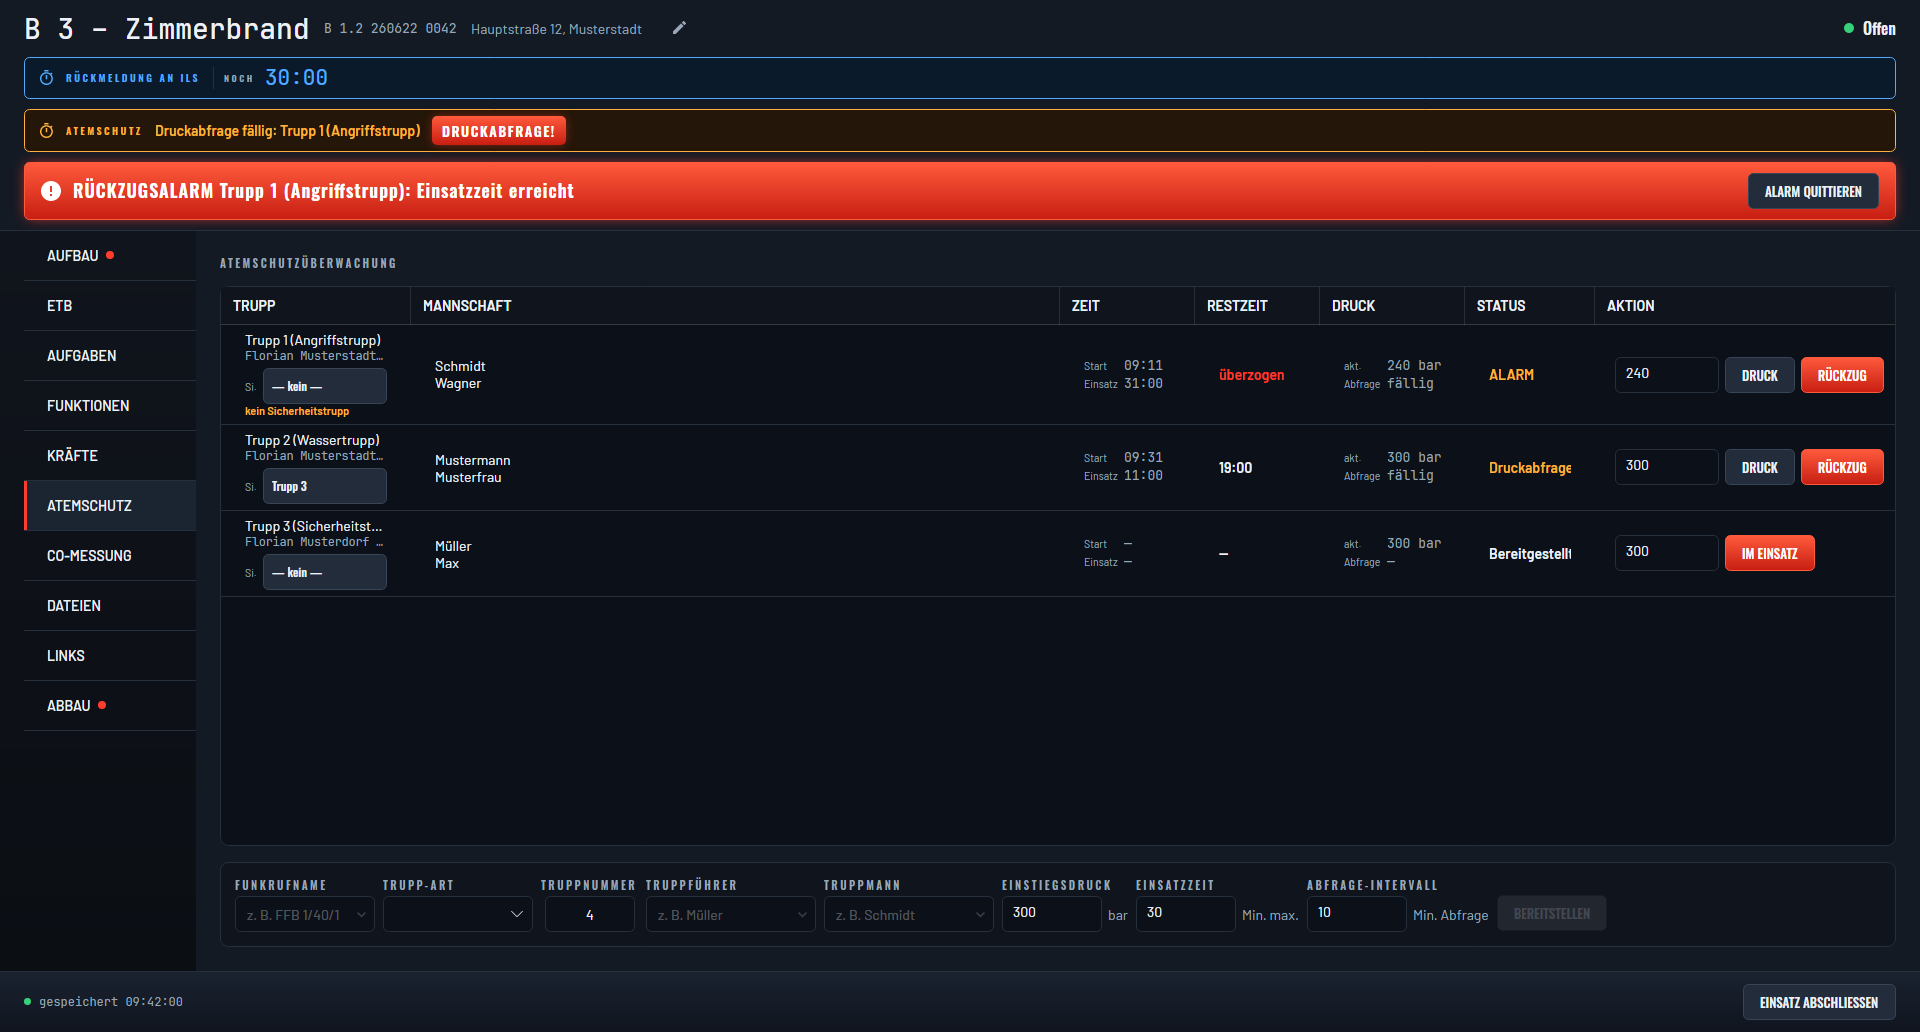
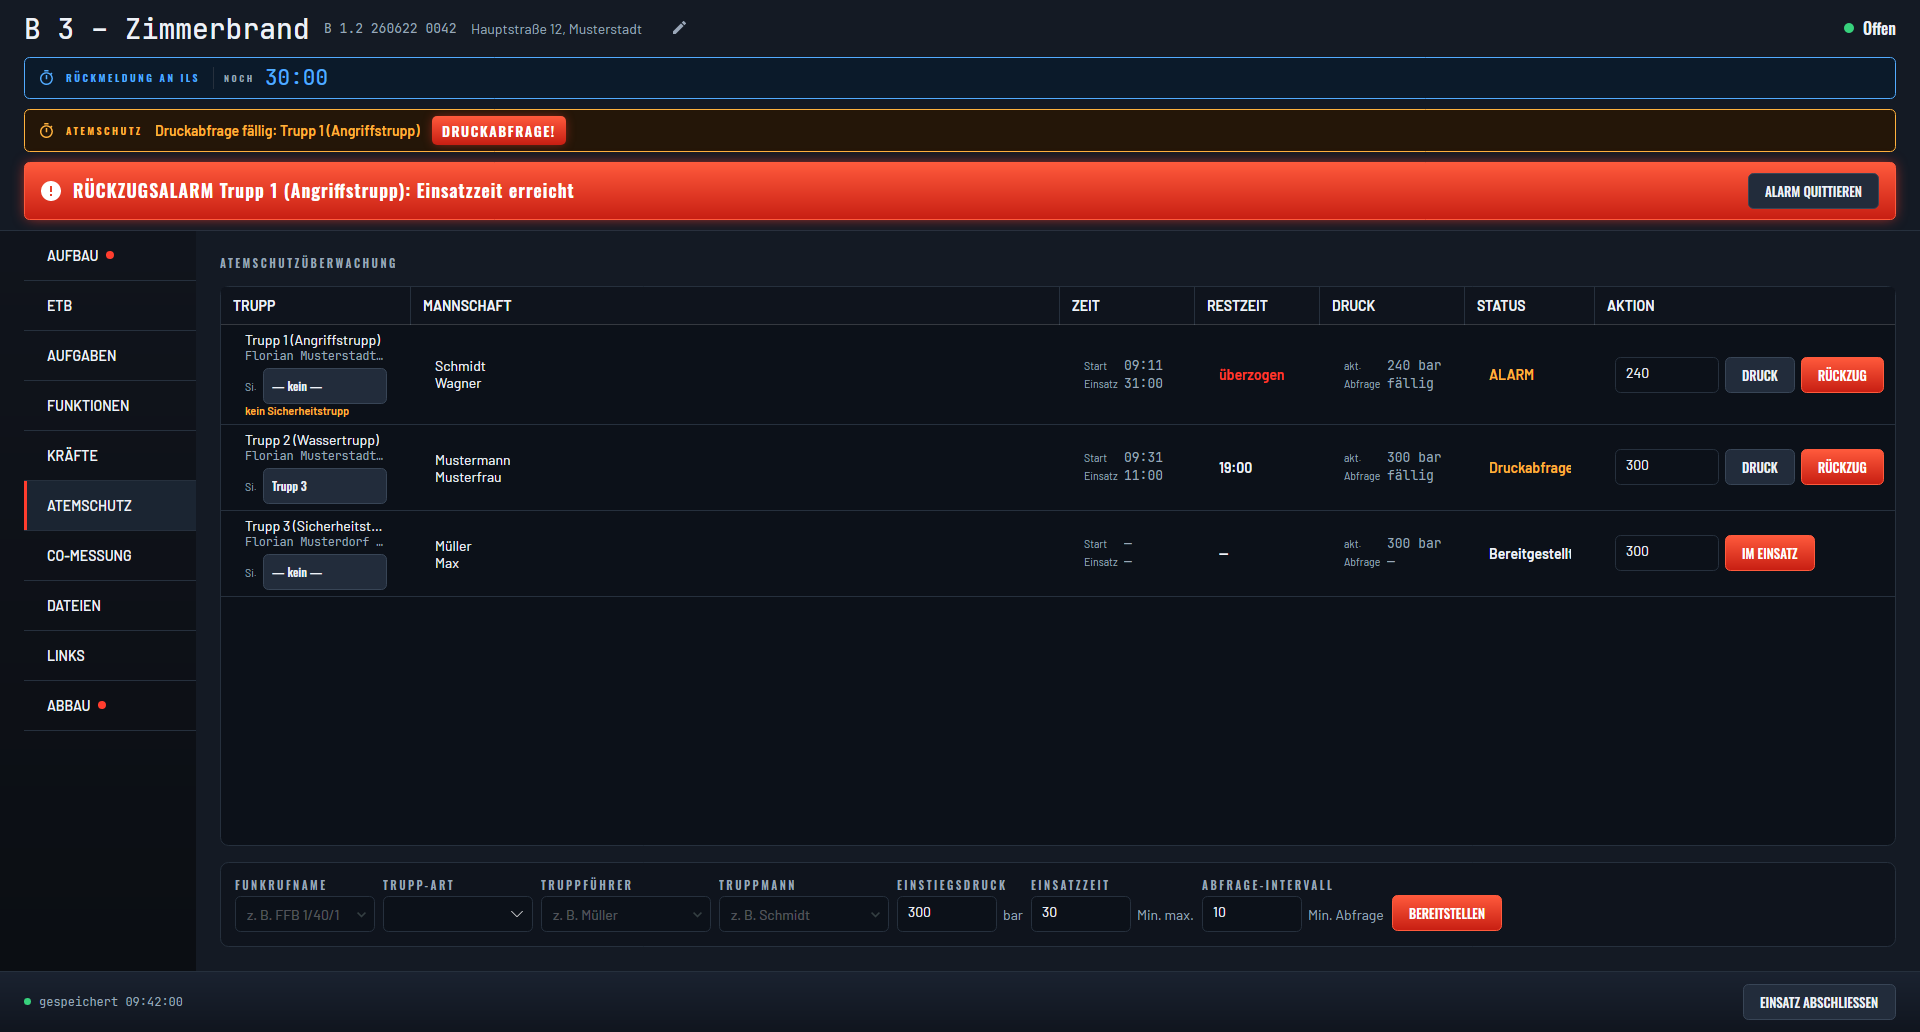
fix(atemschutz): das nicht editierbare Truppnummer-Feld entfällt (#440)
fix(atemschutz): das nicht editierbare Truppnummer-Feld entfaellt

Die TRUPPNUMMER stand als TextBox mit IsReadOnly="True" in der
Bereitstellen-Zeile. IsReadOnly verhindert nur das Schreiben, nicht Fokus und
Tab-Stopp: man klickte hinein, bekam Cursor und Markierung -- und Tippen
bewirkte nichts. Genau das meldet die Praxis in #416, zusammen mit dem zweiten
Aerger, dass das Feld die Zeile bei schmalem Fenster in einen zweiten Umbruch
drueckte.

Das Feld faellt ersatzlos weg. Die Nummer wird ohnehin intern von
Incident.NextFreeScbaTruppNumber() vergeben -- die Sperre aus #217 gegen
handgetippte Duplikate bleibt damit unberuehrt -- und wird nach dem
Bereitstellen als Teil von AtemschutzTrupp.FormatDisplayName in der Spalte
TRUPP sichtbar. Die Zeile spart rund 105px und umbricht entsprechend spaeter.

FUNKRUFNAME und TRUPP-ART bekommen x:Name, damit der neue Tab-Order-Test die
Kette FUNKRUFNAME -> TRUPP-ART -> TRUPPFUEHRER -> TRUPPMANN festhalten kann;
ohne die Aenderung bleibt er am toten Nummernfeld haengen.

docs/screenshots/atemschutz.png ist neu erzeugt. Die uebrigen Screenshots
weichen schon vor diesem Branch von main ab (#435/#436/#437 haben sie nicht
mitgezogen) und bleiben hier bewusst unangetastet.

Closes #416

Changed region(s): [[0.3125, 0.8372, 0.8438, 0.8992], [0.2812, 0.8682, 0.3125, 0.8992]]

diff --git a/tests/LageBuch.Acceptance.Tests/TabOrderTests.cs b/tests/LageBuch.Acceptance.Tests/TabOrderTests.cs
@@ -14,7 +14,7 @@ namespace LageBuch.Acceptance.Tests;
 
 // #262 (UX review, "No accessibility support"): no explicit TabIndex exists anywhere in the app,
 // so keyboard-only navigation relies entirely on Avalonia's default declaration-order tab
-// navigation. Rather than sprinkling TabIndex speculatively, these tests verify the two riskiest
+// navigation. Rather than sprinkling TabIndex speculatively, these tests verify the riskiest
 // layouts (many same-row fields/buttons) already tab in reading order -- if one of these starts
 // failing, that specific spot needs an explicit TabIndex fix, not a blanket sweep.
 public class TabOrderTests
@@ -154,5 +154,54 @@ public class TabOrderTests
         Tab(window);
         Dispatcher.UIThread.RunJobs();
         Assert.True(removeButton.IsKeyboardFocusWithin);
+    }
+
+    // #416: TRUPPNUMMER used to sit between TRUPP-ART and TRUPPFÜHRER as a TextBox with
+    // IsReadOnly="True". IsReadOnly blocks typing but not focus, so tabbing through the dock
+    // stopped in a field that swallowed every keystroke -- which is exactly what the practitioner
+    // feedback described. The field is gone (the number is assigned internally and shows on the
+    // registered Trupp); this pins that nothing dead takes its place in the tab chain.
+    [AvaloniaFact]
+    public void Scba_registration_dock_tabs_from_trupp_art_straight_to_truppfuehrer()
+    {
+        var clock = new FixedClock();
+        var session = TestSession.StartNew(
+            new FakeStore(),
+            clock,
+            new SessionOperator("Müller", "FFB 12/1"),
+            "/x.fwincident",
+            Array.Empty<(string, bool)>(),
+            Array.Empty<(string, bool)>());
+        var md = MasterDataSet.Empty with
+        {
+            TruppTypes = new[] { new TruppType("Angriffstrupp") },
+            Personnel = new[] { new Person("Mustermann", "Max", "ZF", null, null) },
+        };
+        var vm = new ScbaViewModel(session, md, clock, new NoopTicker(), new NoopAlarmService(), () => { });
+
+        var view = new ScbaView { DataContext = vm };
+        var window = new Window { Content = view, Width = 1400, Height = 600 };
+        window.Show();
+        Dispatcher.UIThread.RunJobs();
+
+        view.GetControl<AutoCompleteBox>("CallSignBox").Focus();
+        Dispatcher.UIThread.RunJobs();
+        Assert.True(view.GetControl<AutoCompleteBox>("CallSignBox").IsKeyboardFocusWithin);
+
+        Tab(window);
+        Dispatcher.UIThread.RunJobs();
+        Assert.True(view.GetControl<ComboBox>("TruppTypeBox").IsKeyboardFocusWithin);
+
+        Tab(window);
+        Dispatcher.UIThread.RunJobs();
+        Assert.True(view.GetControl<AutoCompleteBox>("TruppfuehrerBox").IsKeyboardFocusWithin);
+
+        Tab(window);
+        Dispatcher.UIThread.RunJobs();
+        Assert.True(view.GetControl<AutoCompleteBox>("TruppmannBox").IsKeyboardFocusWithin);
+
+        // The chain stops here on purpose. ZweiterTruppmannBox is collapsed
+        // (IsVisible="{Binding RequiresThirdMember}") for a two-person Trupp-Typ and so is no tab
+        // stop, and the gap this test guards sat before TRUPPFÜHRER, not after TRUPPMANN.
     }
 }

diff --git a/src/LageBuch.AppLogic/ViewModels/ScbaViewModel.cs b/src/LageBuch.AppLogic/ViewModels/ScbaViewModel.cs
@@ -397,8 +397,11 @@ public sealed partial class ScbaViewModel : ObservableObject, IDisposable
 
     /// <summary>
     /// Internally assigned, never user-edited (#217): a hand-typed duplicate crashed
-    /// <see cref="Domain.Incident.AddScbaTrupp"/>, so the view shows this as read-only text and
-    /// only the constructor, <see cref="AddTrupp"/>, and <see cref="RefreshTrupps"/> ever set it.
+    /// <see cref="Domain.Incident.AddScbaTrupp"/>, so only the constructor,
+    /// <see cref="AddTrupp"/>, and <see cref="RefreshTrupps"/> ever set it. The registration
+    /// dock does not show it at all (#416) -- a read-only TextBox still took focus and a tab
+    /// stop while ignoring every keystroke. The number first becomes visible on the registered
+    /// Trupp, through <see cref="Domain.Atemschutz.AtemschutzTrupp.FormatDisplayName"/>.
     /// </summary>
     [ObservableProperty]
     private int _newTruppNumber;

diff --git a/changelog.d/+truppnummer-feld-entfernt.changed.md b/changelog.d/+truppnummer-feld-entfernt.changed.md
@@ -1,0 +1,1 @@
+Atemschutz: das Feld TRUPPNUMMER ist aus der Bereitstellen-Zeile verschwunden. Es war anklickbar und tabbar, obwohl jede Eingabe wirkungslos blieb — man landete mit Cursor und Markierung in einem Feld, das nicht antwortete — und es drängte die Zeile bei schmalem Fenster in einen zweiten Umbruch. Die Nummer wird weiterhin automatisch vergeben und steht nach dem Bereitstellen am Trupp in der Spalte TRUPP. (#416)
